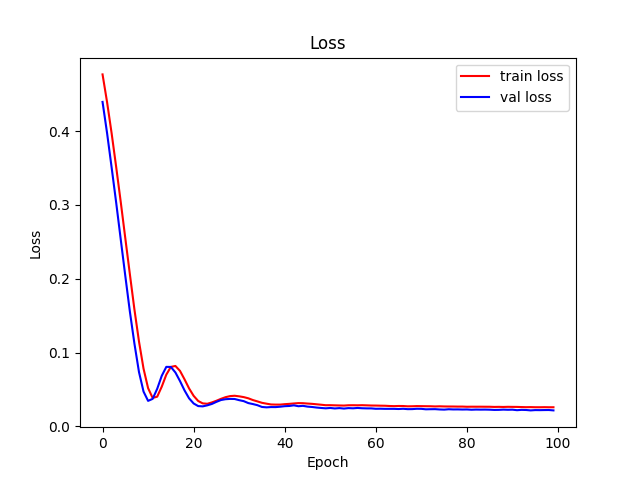
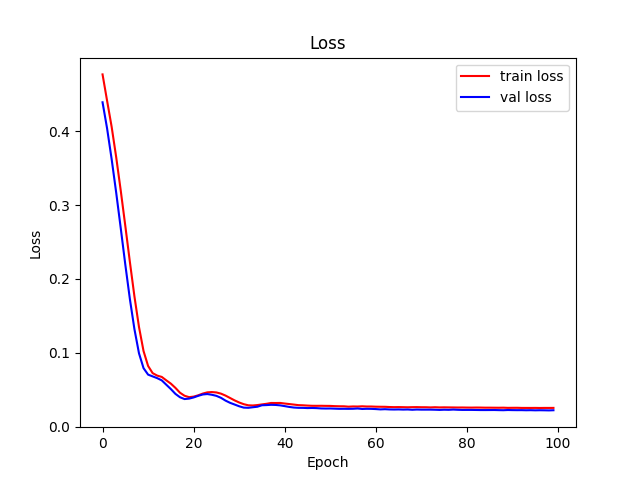
run 0 - 4 gnn

Changed region(s): [[0.1562, 0.1875, 0.875, 0.875], [0.0625, 0.4062, 0.125, 0.4375]]

diff --git a/gnn.py b/gnn.py
@@ -116,6 +116,8 @@ def get_graph():
 
             all_keys = ["neighbor_aver_daily_view", "neighbor_aver_daily_share",
                         "neighbor_aver_watch_percentage", "neighbor_engagement", "centrality"]
+            all_keys = ["neighbor_aver_daily_view", "neighbor_aver_daily_share",
+                        "neighbor_engagement", "neighbor_aver_watch_percentage"]
             lst = []
             for k in all_keys:
                 lst.extend(compile_data[vid_id][k])
@@ -177,7 +179,7 @@ plt.xlabel('Epoch')
 plt.ylabel('Loss')
 plt.legend()
 plt.title('Loss')
-num = 1
+num = 3
 plt.savefig(f"gnn_loss_plt_{num}.png")
 
 np.savetxt(f"gnn_loss_vals_{num}", np.array([train_loss, val_loss]))

diff --git a/plots/README.md b/plots/README.md
@@ -1,2 +1,4 @@
 gnn_loss_plt_0 --> gnn with all variables, MSE loss function, Adam optimizer, 100 epochs, lr 0.01
 gnn_loss_plt_1 --> gnn without neighbor engagement, MSE loss function, Adam optimizer, 100 epochs, lr 0.01
+gnn_loss_plt_2 --> gnn without neighbor watch percentage, MSE loss function, Adam optimizer, 100 epochs, lr 0.01
+gnn_loss_plt_3 --> gnn without centrality, MSE loss function, Adam optimizer, 100 epochs, lr 0.01
